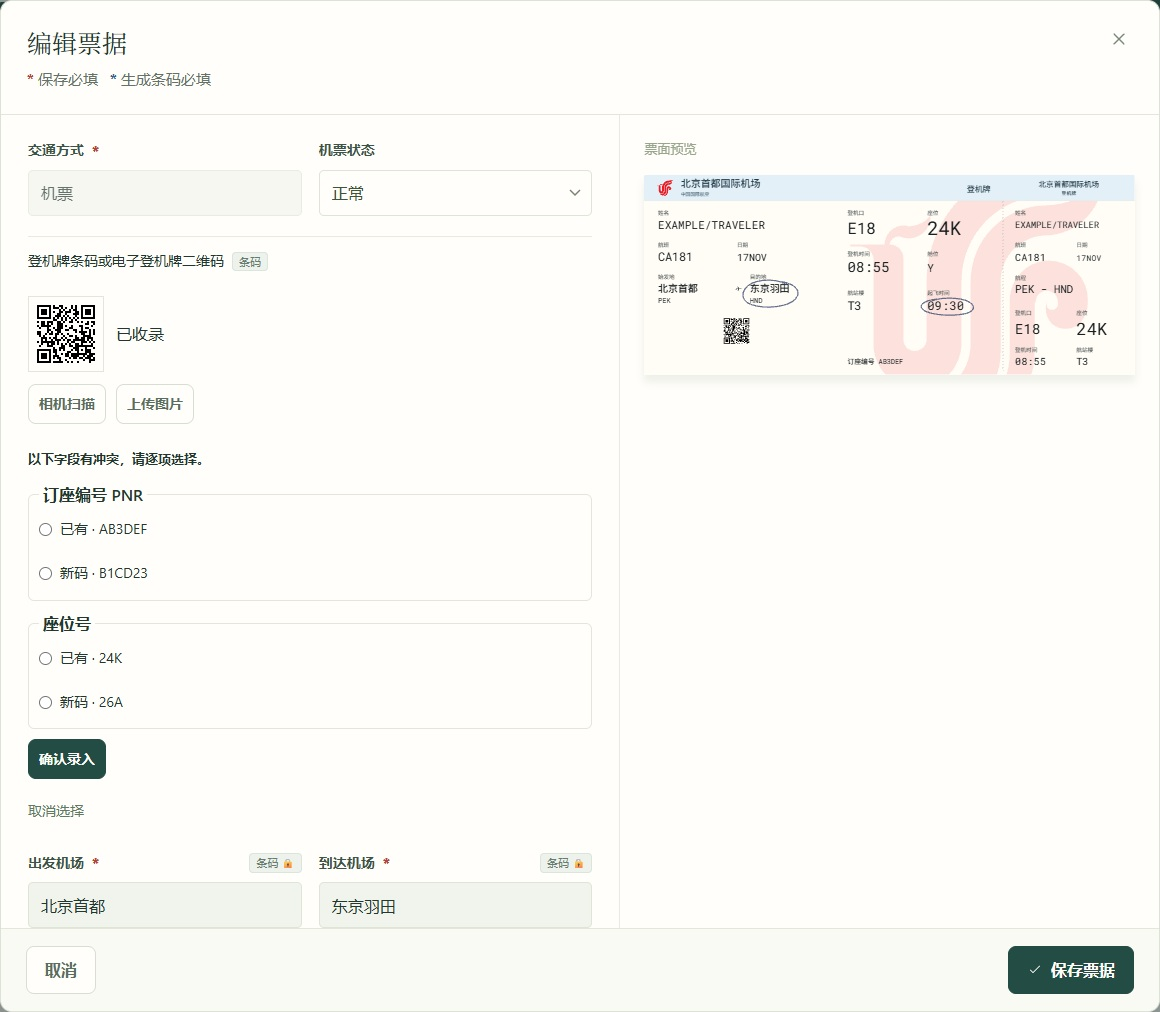
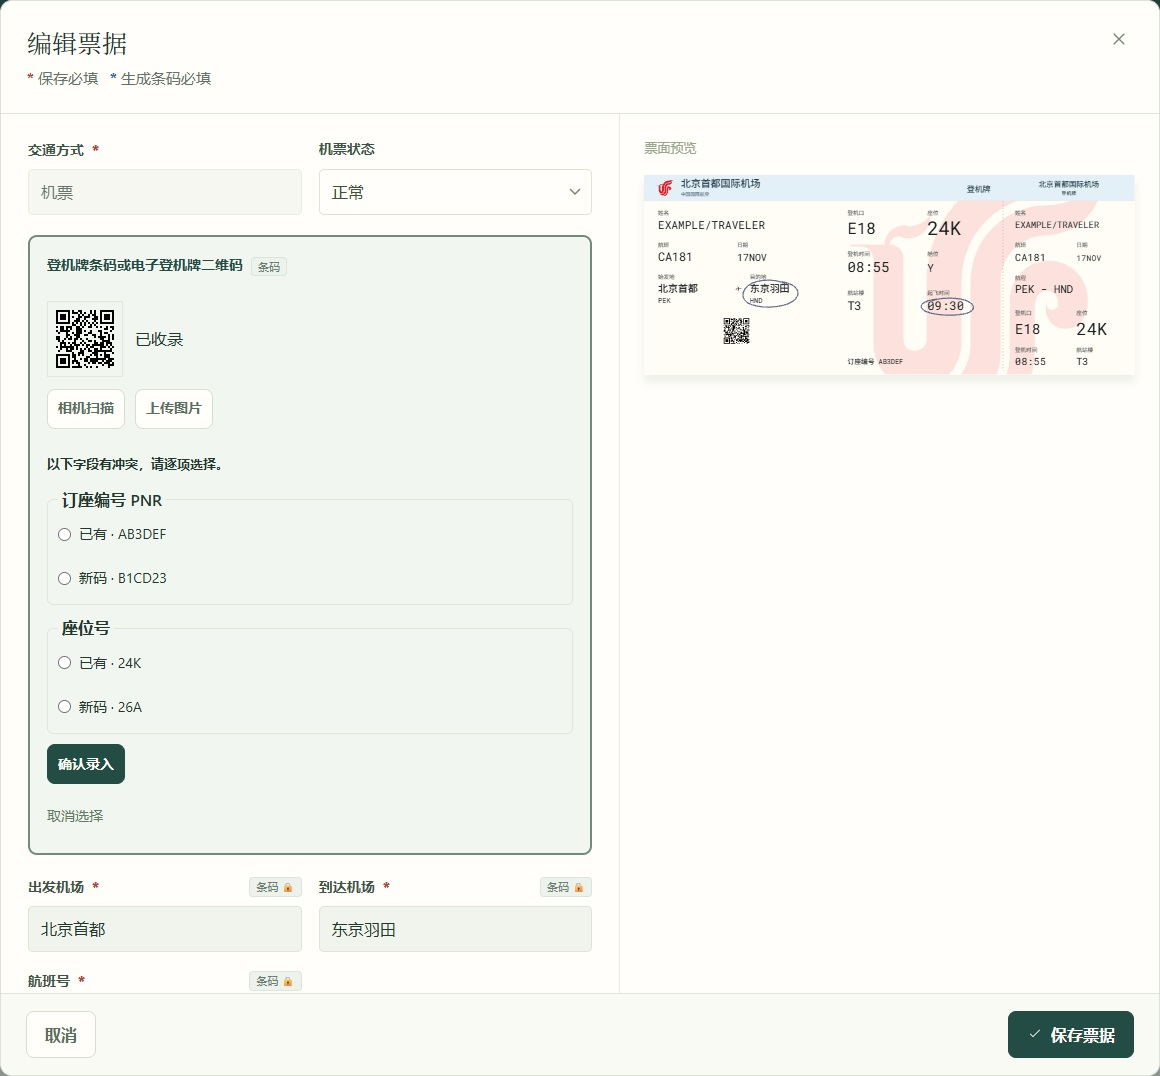
Emphasize ticket barcode scanning panels

diff --git a/src/styles.css b/src/styles.css
@@ -624,7 +624,10 @@ select:not([multiple]){-webkit-appearance:none;appearance:none;min-width:0;max-w
 .rail-line-name{pointer-events:none}.rail-line-name text{fill:#ffcf8e;stroke:#173047;paint-order:stroke;stroke-linejoin:round;font-family:inherit;font-weight:550}
 .editor-footer{flex-wrap:wrap}.editor-error{flex:0 0 100%;margin:0 0 6px;padding:12px 14px;border:1px solid #be493f;border-left:4px solid #a33229;border-radius:6px;background:#fff0ec;color:#8d2821;font-size:15px;line-height:1.6}.editor-error[hidden]{display:none}.field-invalid input:not([type="hidden"]),.field-invalid select{border-color:#b94135;background-color:#fff5f1}.field-invalid>span{color:#a33229}.operation-status{display:flex;align-items:center;gap:10px;min-height:48px}form[aria-busy="true"] [type="submit"]{opacity:.85;cursor:wait}#editor-form .field{scroll-margin-top:110px;scroll-margin-bottom:160px}
 .code-consistency{font-size:14px;line-height:1.6;color:#795520;background:#faf2df;border:1px solid #e7d7b4;border-radius:6px;padding:10px 12px;margin:12px 0}.code-consistency[hidden]{display:none}
-.editor-fields>.boarding-generator{margin-top:22px;border-top:1px solid var(--line);padding-top:18px}.boarding-generator fieldset{border:0;margin:0;padding:0;min-width:0}.boarding-generator fieldset:disabled{opacity:.55}.form-grid>[data-code-editor]{grid-column:1/-1;min-width:0;margin-bottom:20px}
+.editor-fields>.boarding-generator{margin-top:22px;border-top:1px solid var(--line);padding-top:18px}.boarding-generator fieldset{border:0;margin:0;padding:0;min-width:0}.boarding-generator fieldset:disabled{opacity:.55}
+.form-grid>[data-code-editor]{grid-column:1/-1;min-width:0;margin-bottom:20px;padding:clamp(12px,2vw,17px);border:2px solid #708c7d;border-radius:9px;background:#f2f6f0}
+.form-grid>[data-code-editor]>h3{color:var(--green);font-weight:650}
+[data-code-editor]>:is(#code-status,#code-error):empty{margin:0}
 @media(max-width:680px){.editor-layout.flight-editor-layout{flex-direction:column}}
 .required-mark.barcode-required-mark{color:#32658d}
 .editor-required-hint{display:flex;flex-wrap:wrap;gap:2px 12px;color:var(--muted)}
